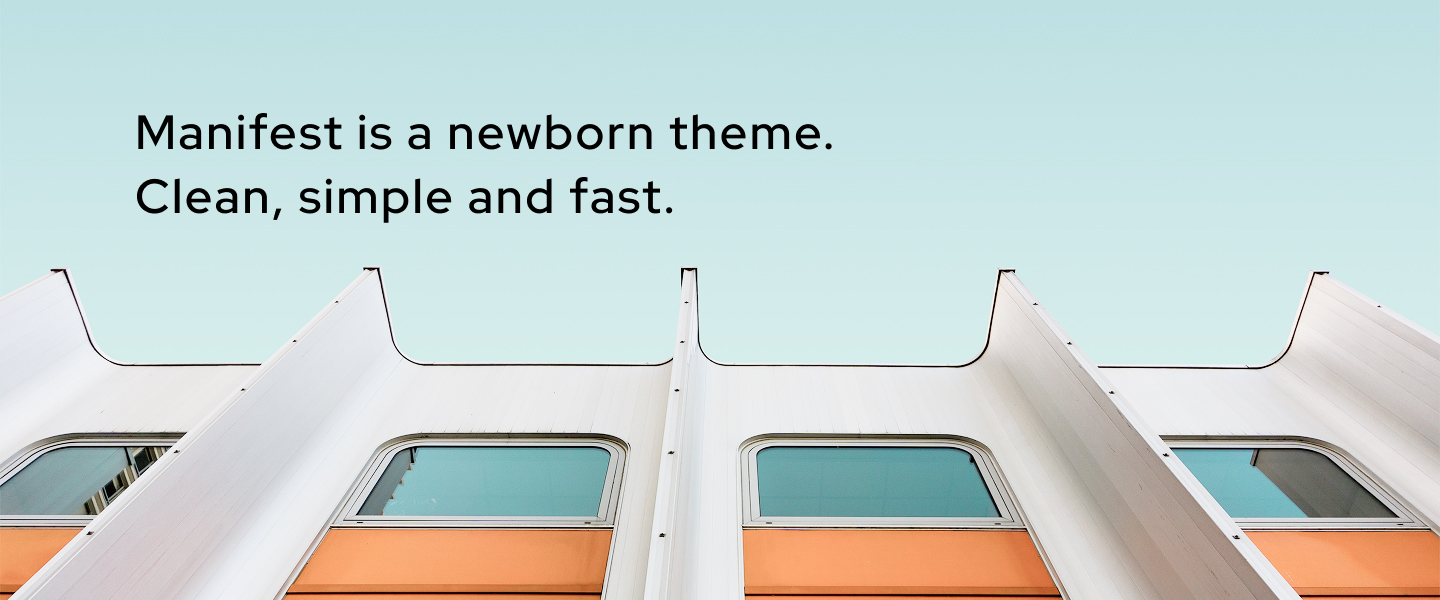
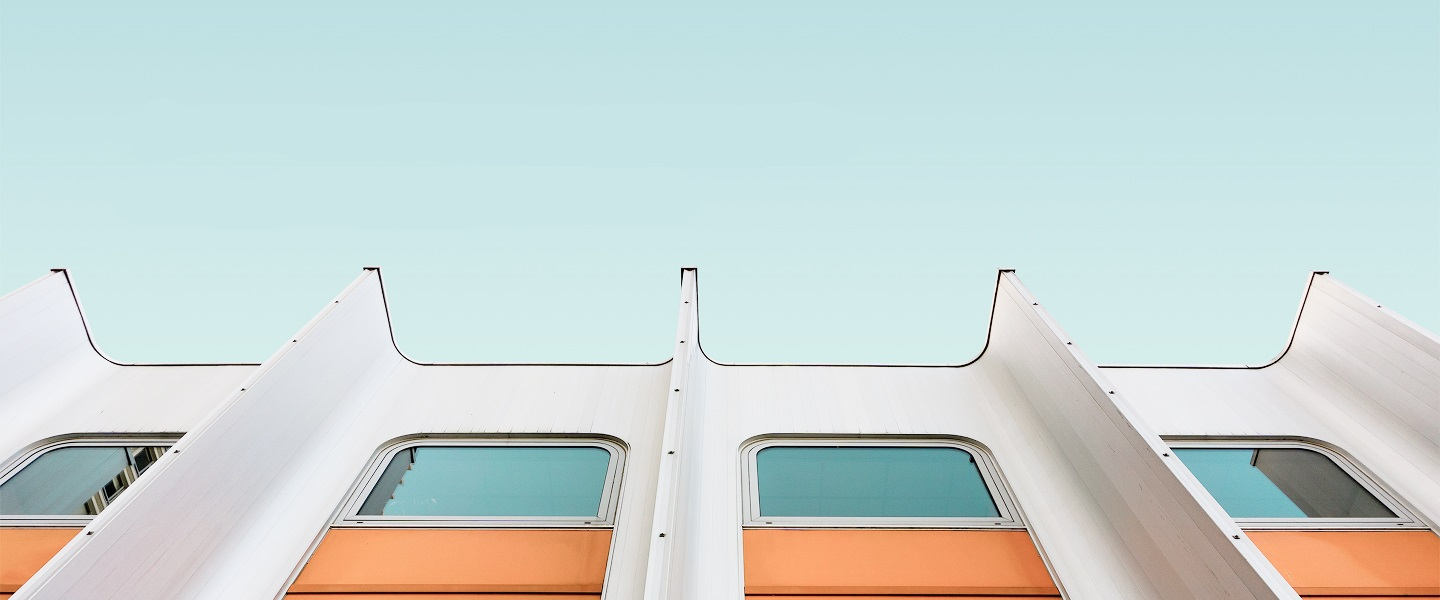
change08-07-25

diff --git a/16-manifest/assets/css/style.min.css b/16-manifest/assets/css/style.min.css
@@ -1,1 +1,1 @@
-header .container .header-right nav ul a:hover,header .container .logo-wrap:hover{scale:1.2}@font-face{font-display:swap;font-family:Lato;font-style:normal;font-weight:400;src:url(../fonts/lato-v24-latin-regular.woff2) format("woff2")}@font-face{font-display:swap;font-family:Lato;font-style:normal;font-weight:700;src:url(../fonts/lato-v24-latin-700.woff2) format("woff2")}@font-face{font-display:swap;font-family:"Red Hat Display";font-style:normal;font-weight:400;src:url(../fonts/red-hat-display-v20-latin-regular.woff2) format("woff2")}@font-face{font-display:swap;font-family:"Red Hat Display";font-style:normal;font-weight:500;src:url(../fonts/red-hat-display-v20-latin-500.woff2) format("woff2")}@font-face{font-display:swap;font-family:"Red Hat Display";font-style:normal;font-weight:600;src:url(../fonts/red-hat-display-v20-latin-600.woff2) format("woff2")}*,::after,::before{padding:0;margin:0;box-sizing:border-box}ol,ul{list-style:none}a,button{transition:all .2s ease}a{text-decoration:none}button{cursor:pointer;background-color:transparent;border:none}img{vertical-align:top;width:100%;height:100%;object-fit:cover}.container{width:min(90%,1170px);margin:0 auto}body{color:#565656;font-family:Lato;font-size:1rem;line-height:166%;letter-spacing:.05rem}.page-wrapper{display:flex;flex-direction:column;justify-content:space-between;min-height:100dvh}.page-wrapper main{flex-grow:1}header{height:60px;padding:40px 0}header .container{display:flex;justify-content:space-between;align-items:center}header .container .logo-wrap{display:inline-block;width:142px;transform:translateY(50%);transition:all .3s ease}header .container .header-right{display:flex;justify-content:end;gap:84px}header .container .header-right nav ul{display:flex;justify-content:end;gap:42px}header .container .header-right nav ul a{color:#000;font-size:.875rem;letter-spacing:.2625rem;text-transform:uppercase;position:relative;transition:all .3s ease;display:inline-block}header .container .header-right nav ul a::after{content:"";position:absolute;bottom:-5px;left:50%;transform:translateX(-50%);height:1px;width:0;background-color:#000;transition:all .4s ease}header .container .header-right nav ul a:hover::after{width:40px}header .container .header-right .serch-img{width:17px;transition:all .3s ease}header .container .header-right .serch-img:hover{scale:1.4}
+header .container .header-right nav ul a:hover,header .container .logo-wrap:hover{scale:1.2}@font-face{font-display:swap;font-family:Lato;font-style:normal;font-weight:400;src:url(../fonts/lato-v24-latin-regular.woff2) format("woff2")}@font-face{font-display:swap;font-family:Lato;font-style:normal;font-weight:700;src:url(../fonts/lato-v24-latin-700.woff2) format("woff2")}@font-face{font-display:swap;font-family:"Red Hat Display";font-style:normal;font-weight:400;src:url(../fonts/red-hat-display-v20-latin-regular.woff2) format("woff2")}@font-face{font-display:swap;font-family:"Red Hat Display";font-style:normal;font-weight:500;src:url(../fonts/red-hat-display-v20-latin-500.woff2) format("woff2")}@font-face{font-display:swap;font-family:"Red Hat Display";font-style:normal;font-weight:600;src:url(../fonts/red-hat-display-v20-latin-600.woff2) format("woff2")}*,::after,::before{padding:0;margin:0;box-sizing:border-box}ol,ul{list-style:none}a,button{transition:all .2s ease}a{text-decoration:none}button{cursor:pointer;background-color:transparent;border:none}img{vertical-align:top;width:100%;height:100%;object-fit:cover}.container{width:min(90%,1170px);margin:0 auto}body{color:#565656;font-family:Lato;font-size:1rem;line-height:166%;letter-spacing:.05rem}.page-wrapper{display:flex;flex-direction:column;justify-content:space-between;min-height:100dvh}.page-wrapper main{flex-grow:1}header{height:60px;padding:16px 0}header .container{display:flex;justify-content:space-between;align-items:center}header .container .logo-wrap{display:inline-block;width:142px;height:12px;transition:all .3s ease;position:relative}header .container .logo-wrap img{width:100%;height:100%;position:absolute;top:50%;left:0;transform:translateY(-50%)}header .container .header-right{display:flex;justify-content:end;gap:84px}header .container .header-right nav ul{display:flex;justify-content:end;gap:42px}header .container .header-right nav ul a{color:#000;font-size:.875rem;letter-spacing:.2625rem;text-transform:uppercase;position:relative;transition:all .3s ease;display:inline-block}.blog h2,.presentation h1{color:#000;font-size:3rem}header .container .header-right nav ul a::after{content:"";position:absolute;bottom:-5px;left:50%;transform:translateX(-50%);height:1px;width:0;background-color:#000;transition:all .4s ease}header .container .header-right nav ul a:hover::after{width:40px}header .container .header-right .serch-img{width:17px;transition:all .3s ease}header .container .header-right .serch-img:hover{scale:1.4}.burger{display:none;width:34px;height:20px}.burger .burger-btn{width:100%;height:100%;position:relative}.burger .burger-btn span{position:absolute;top:0;left:0;display:inline-block;height:2px;background-color:#000;width:100%}.burger .burger-btn::after,.burger .burger-btn::before{content:"";position:absolute;width:100%;height:2px;background-color:#000}.burger .burger-btn::after{top:50%;transform:translateY(-50%);left:0}.burger .burger-btn::before{bottom:0;left:0}.presentation{height:600px;width:100%;background:url(../images/First-Screen.jpg) center center no-repeat;background-size:cover}.presentation h1{font-family:"Red Hat Display";font-weight:600;line-height:4rem;letter-spacing:.15rem;padding:100px 0 380px;margin-left:9.37%;max-width:770px}.blog h2{font-family:"Red Hat Display";font-weight:400;line-height:4rem;letter-spacing:.15rem;padding-top:90px;margin-bottom:50px}.blog .blog-items{display:flex;justify-content:space-between;gap:30px}.blog .blog-items .item{width:50%}.blog .blog-items .item .item-content-wrap,.blog .blog-items .item .item-content-wrap--reverse{max-width:450px}.blog .blog-items .item .item-content-wrap--reverse{margin-left:auto}.blog .blog-items .item .subtitle,.blog .blog-items .item .sup-title{color:#7b7b7b;font-family:Lato;font-size:1rem;font-weight:400;line-height:166%;letter-spacing:.1rem}.blog .blog-items .item .sup-title{padding-top:85px;margin-bottom:30px}.blog .blog-items .item .subtitle{margin-bottom:50px}.blog .blog-items .item p a{display:inline-block;width:23px;transform:translate(33%,33%)}.blog .blog-items .item h3{color:#000;font-family:"Red Hat Display";font-size:1.4375rem;font-weight:500;line-height:166%;letter-spacing:.14375rem;margin-bottom:15px}.blog .blog-items .item p{margin-bottom:85px}.latest-post{padding:90px 0}.latest-post .latest-post-top{display:flex;justify-content:space-between;align-items:center;margin-bottom:50px}.latest-post .latest-post-top h2{color:#000;font-family:"Red Hat Display";font-size:1.75rem;font-weight:600;line-height:166%;letter-spacing:.175rem}.latest-post .latest-post-top a{color:#7b7b7b;font-family:Lato;font-size:1rem;font-weight:400;line-height:166%;letter-spacing:.1rem;display:inline-block}.latest-post .latest-post-top a img{margin-left:5px;width:23px;transform:translateY(8px)}.post-list{display:grid;grid-template-columns:repeat(3,1fr);gap:30px}.post-list li .post-img{height:260px;margin-bottom:25px}.post-list li .post-data{display:flex;align-items:center;justify-content:space-between;color:#7b7b7b;font-family:Lato;font-size:.75rem;line-height:166%;letter-spacing:.075rem;margin-bottom:25px}.post-list li h3{color:#000;font-family:"Red Hat Display";font-size:1.375rem;font-weight:500;line-height:166%;letter-spacing:.1375rem;margin-bottom:20px}.post-list li p{color:#565656;font-family:Lato;font-size:1rem;line-height:166%;letter-spacing:.05rem}

diff --git a/16-manifest/assets/css/style.scss b/16-manifest/assets/css/style.scss
@@ -1,5 +1,6 @@
 $text-color: #565656;
 $text-dark: #000;
+$text-light-dark: #7b7b7b;
 @import 'fonts';
 *, *::before, *::after {
   padding: 0;
@@ -55,7 +56,7 @@ body {
 }
 header {
   height: 60px;
-  padding: 40px 0;
+  padding: 16px 0;
   .container {
     display: flex;
     justify-content: space-between;
@@ -63,8 +64,17 @@ header {
     .logo-wrap {
       display: inline-block;
       width: 142px;
-      transform: translateY(50%);
+      height: 12px;
       transition: all .3s ease;
+      position: relative;
+      img {
+        width: 100%;
+        height: 100%;
+        position: absolute;
+        top: 50%;
+        left: 0;
+        transform: translateY(-50%);
+      }
       &:hover {
         scale: 1.2;
       }
@@ -111,6 +121,187 @@ header {
           scale: 1.4;
         }
       }
+    }
+  }
+}
+.burger {
+  display: none;
+  width: 34px;
+  height: 20px;
+  .burger-btn {
+    width: 100%;
+    height: 100%;
+    position: relative;
+    span {
+      position: absolute;
+      top: 0;
+      left: 0;
+      display: inline-block;
+      height: 2px;
+      background-color: $text-dark;
+      width: 100%;
+    }
+    &::after, &::before {
+      content: "";
+      position: absolute;
+      width: 100%;
+      height: 2px;
+      background-color: $text-dark;
+    }
+    &::after {
+      top: 50%;
+      transform: translateY(-50%);
+      left: 0;
+    }
+    &::before {
+      bottom: 0;
+      left: 0;
+    }
+  }
+}
+.presentation {
+  height: 600px;
+  width: 100%;
+  background: url('../images/First-Screen.jpg') center center no-repeat;
+  background-size: cover;
+  h1 {
+    color: $text-dark;
+    font-family: "Red Hat Display";
+    font-size: 3rem;
+    font-weight: 600;
+    line-height: 4rem;
+    letter-spacing: 0.15rem;
+    padding: 100px 0 380px;
+    margin-left: 9.37%;
+    max-width: 770px;
+  }
+}
+.blog {
+  h2 {
+    color:$text-dark;
+    font-family: "Red Hat Display";
+    font-size: 3rem;
+    font-weight: 400;
+    line-height: 4rem;
+    letter-spacing: 0.15rem;
+    padding-top: 90px;
+    margin-bottom: 50px;
+  }
+  .blog-items {
+    display: flex;
+    justify-content: space-between;
+    // align-items: center;
+    gap: 30px;
+    .item {
+      width: 50%;
+      .item-content-wrap, .item-content-wrap--reverse {
+        max-width: 450px;
+      }
+      .item-content-wrap--reverse {
+        margin-left: auto;
+      }
+      .sup-title, .subtitle {
+        color: $text-light-dark;
+        font-family: Lato;
+        font-size: 1rem;
+        font-weight: 400;
+        line-height: 166%;
+        letter-spacing: 0.1rem;
+      }
+      .sup-title {
+        padding-top: 85px;
+        margin-bottom: 30px;
+      }
+      .subtitle {
+        margin-bottom: 50px;
+      }
+      p a {
+        
+        display: inline-block;
+        width: 23px;
+        transform: translate(33%, 33%);
+      }
+      h3 {
+        color: $text-dark;
+        font-family: "Red Hat Display";
+        font-size: 1.4375rem;
+        font-weight: 500;
+        line-height: 166%;
+        letter-spacing: 0.14375rem;
+        margin-bottom: 15px;
+      }
+      p {
+        margin-bottom: 85px;
+      }
+    }
+  }
+}
+.latest-post {
+  padding: 90px 0;
+  .latest-post-top {
+    display: flex;
+    justify-content: space-between;
+    align-items: center;
+    margin-bottom: 50px;
+    h2 {
+      color: $text-dark;
+      font-family: "Red Hat Display";
+      font-size: 1.75rem;
+      font-weight: 600;
+      line-height: 166%;
+      letter-spacing: 0.175rem;
+    }
+    a {
+      color: $text-light-dark;
+      font-family: Lato;
+      font-size: 1rem;
+      font-weight: 400;
+      line-height: 166%; /* 1.66rem */
+      letter-spacing: 0.1rem;
+      display: inline-block;
+      img {
+        margin-left: 5px;
+        width: 23px;
+        transform: translateY(8px);
+      }
+    }
+  }
+}
+.post-list {
+  display: grid;
+  grid-template-columns: repeat(3, 1fr);
+  gap: 30px;
+  li {
+    .post-img {
+      height: 260px;
+      margin-bottom: 25px;
+    }
+    .post-data {
+      display: flex;
+      align-items: center;
+      justify-content: space-between;
+      color: $text-light-dark;
+      font-family: Lato;
+      font-size: 0.75rem;
+      line-height: 166%;
+      letter-spacing: 0.075rem;
+      margin-bottom: 25px;
+    }
+    h3 {
+      color: $text-dark;
+      font-family: "Red Hat Display";
+      font-size: 1.375rem;
+      font-weight: 500;
+      line-height: 166%;
+      letter-spacing: 0.1375rem;
+      margin-bottom: 20px;
+    }
+    p {
+      color: $text-color;
+      font-family: Lato;
+      font-size: 1rem;
+      line-height: 166%;
+      letter-spacing: 0.05rem;
     }
   }
 }

diff --git a/16-manifest/index.html b/16-manifest/index.html
@@ -36,10 +36,98 @@
           <div class="serch-img">
             <button type="button"><img src="assets/images/search.svg" alt="search"></button>
           </div>
+          <div class="burger">
+            <button type="button" class="burger-btn">
+              <span></span>
+            </button>
+          </div>
         </div>
       </div>
     </header>
-    <main></main>
+    <main>
+      <div class="presentation">
+        <h1>Manifest is a newborn theme.
+          Clean, simple and fast.</h1>
+      </div>
+      <section class="blog">
+        <div class="container">
+          <h2>Blog</h2>
+          <div class="blog-items">
+            <div class="item"><img src="assets/images/pic-arrow-left.jpg" alt="pic-arrow-left"></div>
+            <div class="item">
+              <div class="item-content-wrap">
+                <div class="sup-title">Technology, Interface Design</div>
+                <h3>Using UX Design to Build a Sustainable Future</h3>
+                <div class="subtitle">6 May, 2020</div>
+                <p>Transformation has to be driven by everybody, not just by climate groups, and we have a
+                  responsibility
+                  to use our influence to drive this. <a href="#"><img src="assets/images/Arrow-right.svg"
+                      alt="arrow"></a></p>
+              </div>
+            </div>
+          </div>
+          <div class="blog-items">
+            <div class="item">
+              <div class="item-content-wrap--reverse">
+                <div class="sup-title">Technology, Interface Design</div>
+                <h3>Using UX Design to Build a Sustainable Future</h3>
+                <div class="subtitle">6 May, 2020</div>
+                <p>Transformation has to be driven by everybody, not just by climate groups, and we have a
+                  responsibility
+                  to use our influence to drive this. <a href="#"><img src="assets/images/Arrow-right.svg"
+                      alt="arrow"></a></p>
+              </div>
+            </div>
+            <div class="item"><img src="assets/images/blog-image.jpg" alt="blog-image"></div>
+          </div>
+        </div>
+      </section>
+      <section class="latest-post">
+        <div class="container">
+          <div class="latest-post-top">
+            <h2>
+              Latest Posts
+            </h2>
+            <a href="#">View All <img src="assets/images/Arrow-right.svg" alt="arrow"></a>
+          </div>
+          <ul class="post-list">
+            <li>
+              <div class="post-img">
+                <img src="assets/images/lamp.jpg" alt="lamp">
+              </div>
+              <div class="post-data">
+                <div class="item">Interface Design</div>
+                <div class="item">8 June, 2020</div>
+              </div>
+              <h3>UX traffic light colours</h3>
+              <p>UI has to make a huge visual difference between warning, an alert and a success.</p>
+            </li>
+            <li>
+              <div class="post-img">
+                <img src="assets/images/pic-arrow-left.jpg" alt="pic-arrow-left">
+              </div>
+              <div class="post-data">
+                <div class="item">Technology</div>
+                <div class="item">6 May, 2020</div>
+              </div>
+              <h3>Using UX Design to Build a Sustainable Future</h3>
+              <p>UI has to make a huge visual difference between warning, an alert and a success.</p>
+            </li>
+            <li>
+              <div class="post-img">
+                <img src="assets/images/house.jpg" alt="house">
+              </div>
+              <div class="post-data">
+                <div class="item">Visual Design</div>
+                <div class="item">8 June, 2020</div>
+              </div>
+              <h3>Creativity vs. UX</h3>
+              <p>Is it possible to create a delightful user experience without following best UX practices?</p>
+            </li>
+          </ul>
+        </div>
+      </section>
+    </main>
     <footer>150</footer>
   </div>
 </body>
